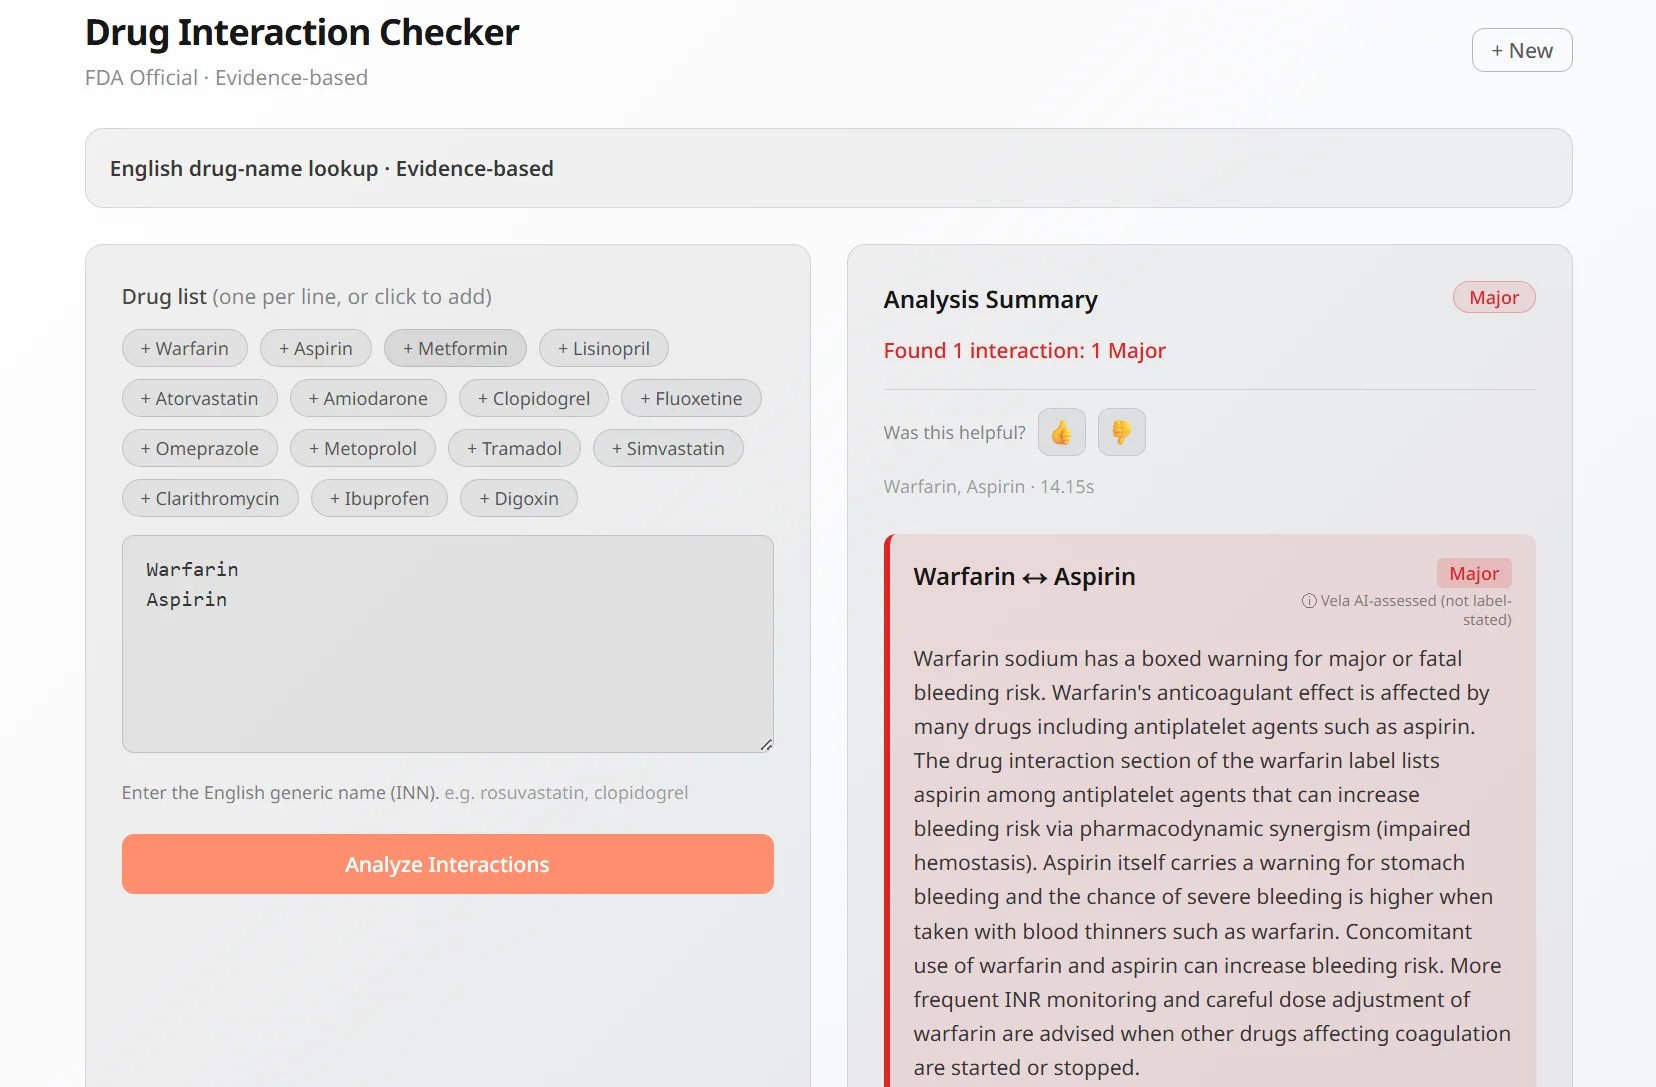
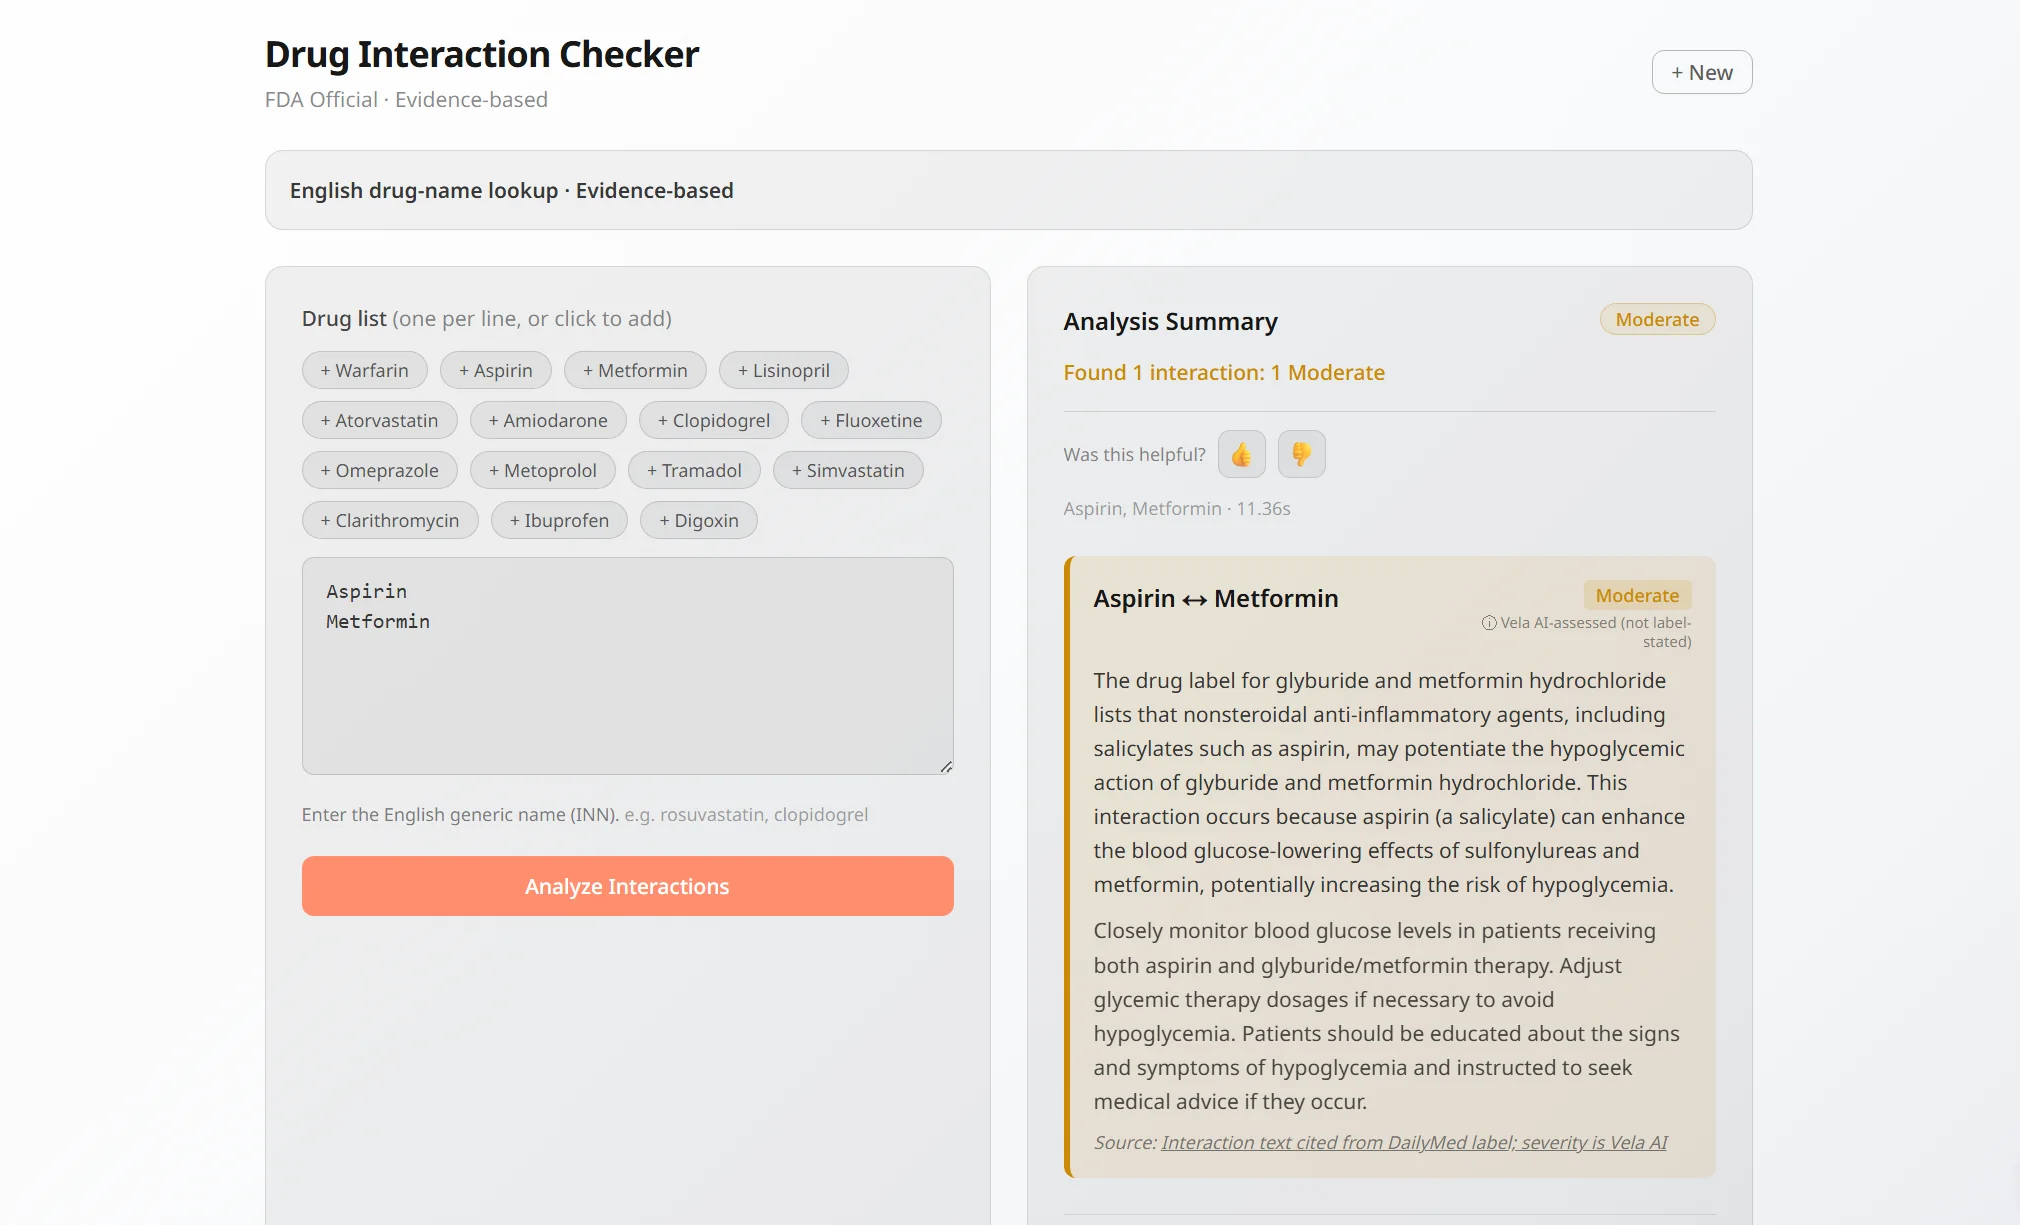
feat(landing): [PRD 0.3] iteration 1 - Verify band matches widened panel; demo re-encoded from new capture
Band width: max-w-5xl -> max-w-[min(80rem,94vw)], the static CSS mirror of
usePanelScroll's widened target Math.min(1280, innerWidth*0.94) - the panel
is fully widened (p clamped at 1) wherever the band is on screen. Measured
on the built page: band/panel left+right edge deltas 0.0px at 1024 (944px),
1280 (1200px) and 1500 (1280px); hOverflow 0. Known accepted edge (in-code
comment): under reduced-motion or <md the panel rests at 64rem and the edges
are not meant to match.

Asset (founder overwrote the PNG with a wider capture, same filename; the
old webp was deleted in the working tree): dims RE-DERIVED from the new
IHDR, never carried - OLD 1656x1087 / 106,506 B webp -> NEW 2020x1225 /
110,852 B webp (q85; source PNG 842,327 B, stays untracked). Image
width/height updated to 2020/1225 (CLS reservation); Gate 8 row 6 dims
reference updated (blank form, not yet run). tsc 0, build 0.

diff --git a/components/LandingSections.tsx b/components/LandingSections.tsx
@@ -506,11 +506,21 @@ export default function LandingSections({ lc, t }: Props) {
           Research panel, same container geometry as the panel (px-4 md:px-10 /
           max-w-5xl / rounded-3xl); the panel section's bottom padding is the
           gap between the two bands. CTA reuses tryVerify (card-pill DNA, ink
-          tone); the demo image is the 2e WebP with its encode-derived
-          1656x1087 as the CLS reservation (house rule: dims re-derived per
-          encode, never carried over). Fade-in reuses the cards' useFadeIn. */}
+          tone); the demo image is the 2e WebP with its encode-derived dims as
+          the CLS reservation (house rule: dims re-derived per encode, never
+          carried over — iteration 1 re-derived 2020x1225 from the founder's
+          new wider capture). Fade-in reuses the cards' useFadeIn. */}
       <section ref={bandRef} className="px-4 md:px-10 pb-16 md:pb-20">
-        <div className="w-full max-w-5xl mx-auto rounded-3xl bg-paper-band px-6 py-10 md:py-14 flex flex-col items-center text-center gap-5">
+        {/* Iteration 1: the band matches the panel's WIDENED width, not its
+            resting 64rem — usePanelScroll interpolates the panel's max-width
+            to `Math.min(1280, window.innerWidth * 0.94)`, and p is clamped at
+            1 (fully widened) by the time the band is on screen, so the CSS
+            mirror of that final state is `min(80rem, 94vw)`. Static here — no
+            script. Known edge, accepted: under prefers-reduced-motion or <md
+            the panel handler never runs and the panel rests at 64rem, so the
+            two edges only match in the normal-motion desktop flow the founder
+            reviews. */}
+        <div className="w-full max-w-[min(80rem,94vw)] mx-auto rounded-3xl bg-paper-band px-6 py-10 md:py-14 flex flex-col items-center text-center gap-5">
           <h2 className="font-serif font-bold text-3xl sm:text-4xl leading-tight max-w-3xl text-text">
             {lc.verifyHeadline}
           </h2>
@@ -521,8 +531,8 @@ export default function LandingSections({ lc, t }: Props) {
           <Image
             src="/media/Verify_Landing_Demo.webp"
             alt={lc.verifyDemoAlt}
-            width={1656}
-            height={1087}
+            width={2020}
+            height={1225}
             loading="lazy"
             className="rounded-xl border border-card-border w-full h-auto max-w-4xl"
           />

diff --git a/docs/render_gate_checklist.md b/docs/render_gate_checklist.md
@@ -516,7 +516,7 @@ the new tagline (ruling H).
 | 3 | `http://127.0.0.1:4321/` | **mobile ≤ 390px** · en | **mobile minimal row** | the five links are **ABSENT**; the row is logo · gear · Try Vela · Sign In on **one line, nothing wrapped**, no hamburger | | | |
 | 4 | `http://127.0.0.1:4321/` | desktop · en | **panel with new copy** | near-black panel; headline **solid bold paper serif** reading *"Ask in your language. Answers grounded in evidence."* (no "Decisions"); sub reads the new panelSub (the not-in-English opening + the *"flags where local guidance may differ"* tail); Try Research pill present; **word reveal still plays forward AND reverse** | | | |
 | 5 | `http://127.0.0.1:4321/` | desktop + mobile · en | **2f pre-play pick (FOUNDER DECISION ROW)** | flip `VIDEO_PRELOAD` in `components/LandingSections.tsx` between `'metadata'` (first frame paints pre-play; may fetch the whole 2.3 MB — no byte ranges, `[OTHER][P2]`) and `'none'` (blank bordered box until play); **pick one**; the pick ships and the toggle + losing branch are deleted before deploy | | | |
-| 6 | `http://127.0.0.1:4321/` | desktop · light · en | **Verify band** | band reads as a **warm gray in the paper family** — visibly distinct from the page, never a cool Apple gray (this row ratifies or adjusts the `paper-band` value, ruling C); headline *"Interactions, checked against the label."*; sub ends with the *"…Vela’s, not the label’s"* clause; **Try Verify** ink pill routes `/verify`; the screenshot is **sharp, not squashed** (its own 1656×1087 proportions) | | | |
+| 6 | `http://127.0.0.1:4321/` | desktop · light · en | **Verify band** | band reads as a **warm gray in the paper family** — visibly distinct from the page, never a cool Apple gray (this row ratifies or adjusts the `paper-band` value, ruling C); headline *"Interactions, checked against the label."*; sub ends with the *"…Vela’s, not the label’s"* clause; **Try Verify** ink pill routes `/verify`; the screenshot is **sharp, not squashed** (its own 2020×1225 proportions — iteration-1 re-capture) | | | |
 | 7 | `http://127.0.0.1:4321/` | desktop · **zh-TW** | **zh-TW page** | gear → 繁體中文: hero reads 「用任何語言提問。以你的語言回答——附上可查證的來源。」, band headline 「交互作用，對照藥物標示查核。」; **no raw key names, no leftover English** apart from proper nouns (Vela · FDA) | | | |
 | 8 | `http://127.0.0.1:4321/` | desktop · **ar** | **ar RTL** | layout mirrors (pill arrows flip, text right-aligned), the band composition stays sane, no overlapping glyphs, **no horizontal scroll** | | | |
 | 9 | `http://127.0.0.1:4321/` | **mobile ≤ 390px** | **mobile full scroll** | hero → panel → Verify band → footer scrolls with **no sideways scroll at any point**; the band image fits the width; the footer has **no dead "What Vela does" link** | | | |
